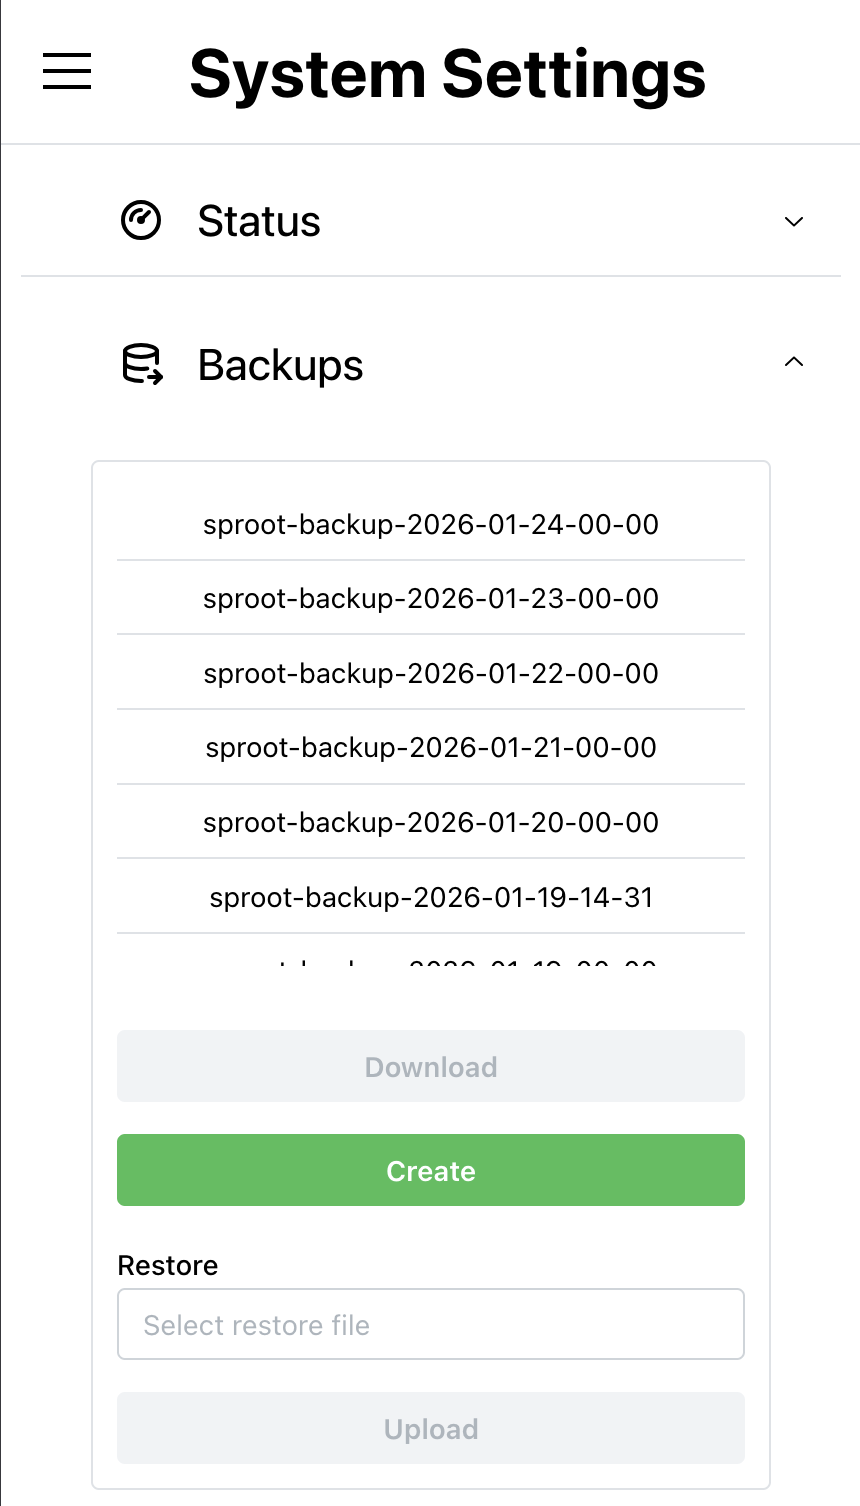
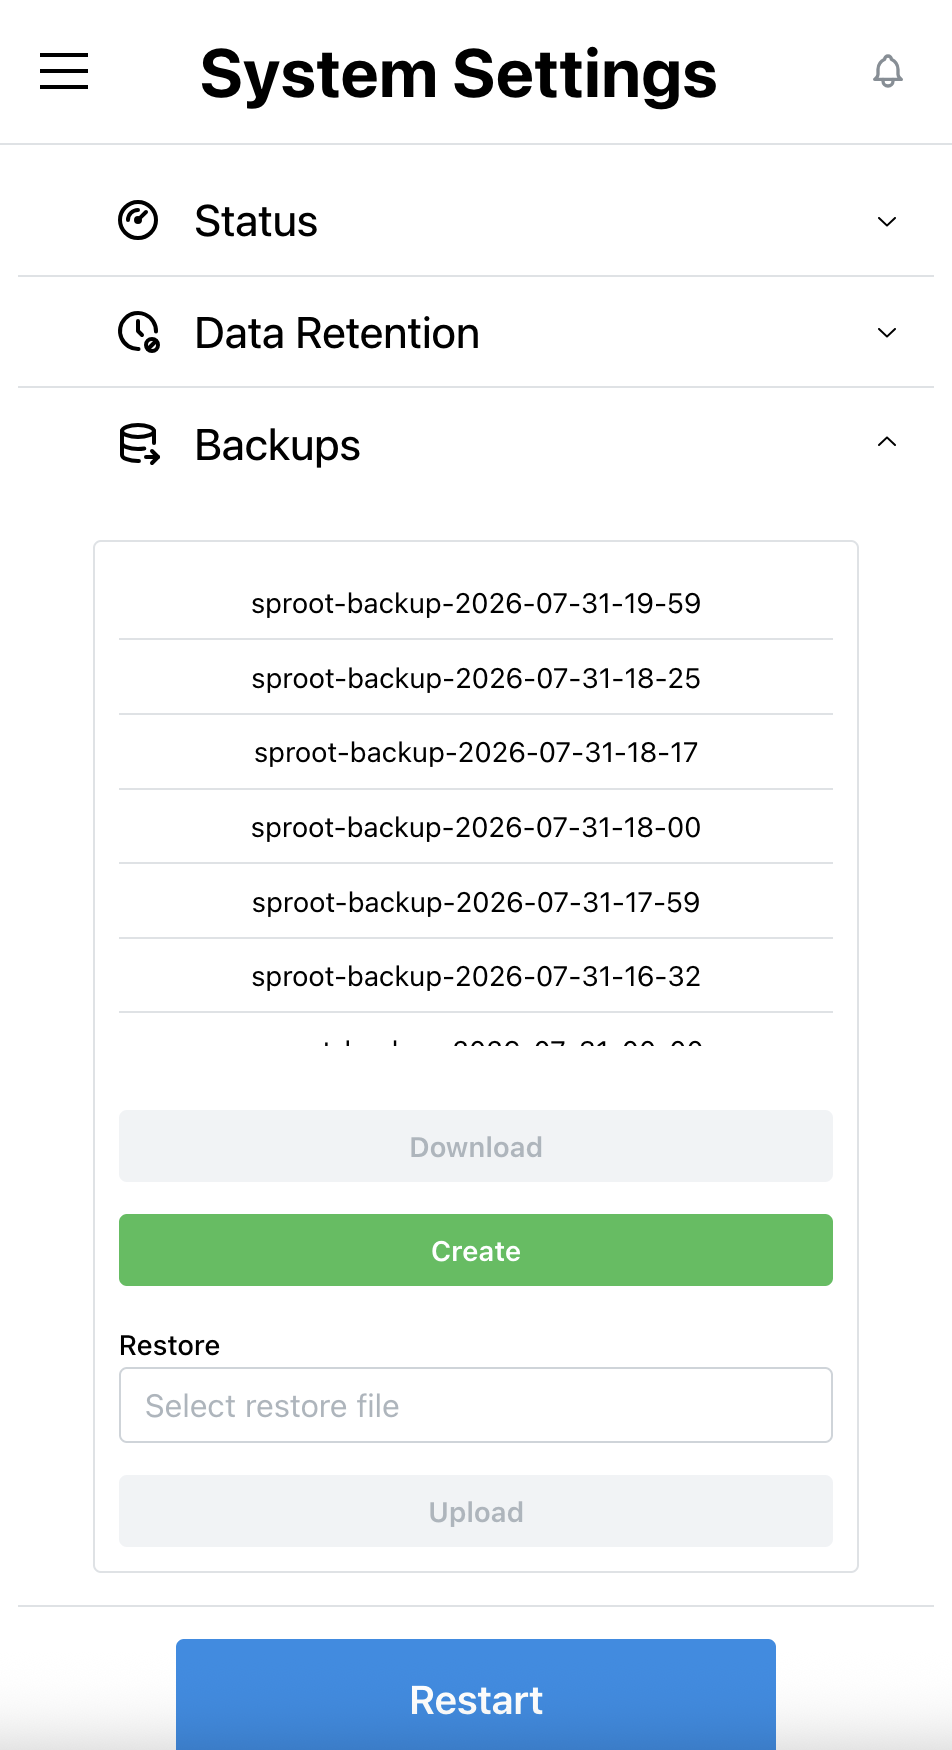
Add some documentation on data-retention (#177)
* Add some documentation on data-retention

* Prettier, of course

diff --git a/docs/docusaurus.config.ts b/docs/docusaurus.config.ts
@@ -140,6 +140,11 @@ const config: Config = {
             },
             {
               type: "doc",
+              label: "Data Retention",
+              docId: "how-to/data-retention",
+            },
+            {
+              type: "doc",
               label: "Backups",
               docId: "how-to/backups",
             },

diff --git a/docs/docs/how-to/data-retention.md b/docs/docs/how-to/data-retention.md
@@ -1,0 +1,12 @@
+---
+sidebar_position: 9
+title: Data Retention
+---
+
+# Data Retention
+
+By default, Sproot will keep data for 2 years for your outputs and sensors. This is configurable - if you'd rather keep data forever, or for only a couple of days, you can configure that here. Update to your desired durations and click "Save Settings".
+
+<p style={{ textAlign: 'center' }}>
+  <img src="/docs/img/DataRetention.png" alt="Data Retention" style={{ width: '30%', maxWidth: '100%', height: 'auto' }} />
+</p>

diff --git a/docs/docs/how-to/backups.md b/docs/docs/how-to/backups.md
@@ -1,5 +1,5 @@
 ---
-sidebar_position: 9
+sidebar_position: 10
 title: Backups
 ---
 
